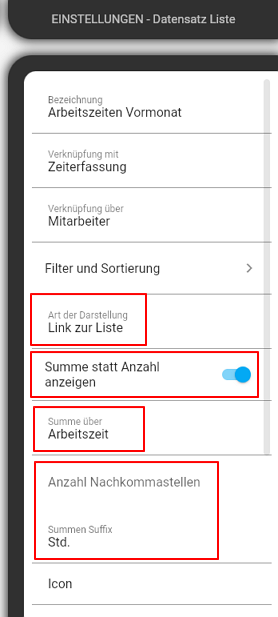
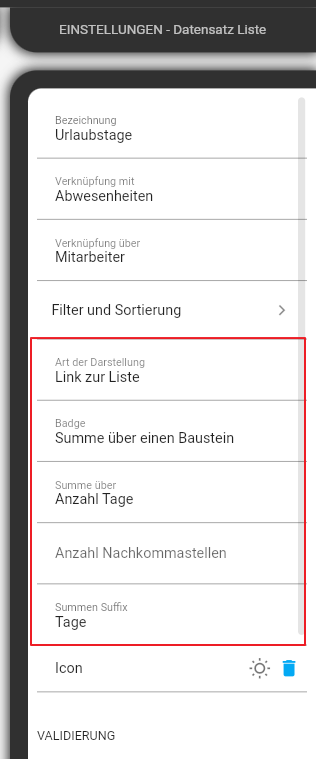
Datensatz-Liste Badgebeschreibung

Changed region(s): [[0.0288, 0.0, 1.0, 1.0], [0.0, 0.0, 0.0288, 0.0308]]

diff --git a/docs/link-lists.md b/docs/link-lists.md
@@ -125,10 +125,11 @@ Der
 kann auch als einfacher Link ohne Vorschau angezeigt werden. Im Standard wird nur der Name der Verknüpfung angezeigt,
 sowie die Anzahl der verknüpften Datensätze.
 
-Anstatt sich die Anzahl der verknüpften Datensätze anzeigen zu lassen, kann über den Switch *Summe statt Anzahl anzeigen*
-eine Summe über die Datensätze gezogen werden. Vorgeschlagen zur Auswahl stehen nur verwendete Bausteine:
-- [Baustein *Nummer*](/docs/record-spec-settings.html#nummer)
-- [Baustein *Zeitspanne*](/docs/record-spec-settings.html#zeitspanne)
+Zusätzlich kann für den Baustein *Datensatz Liste* ein Badge eingestellt werden. Ein Badge ist entweder die Anzeige der Anzahl der beinhalteten Datensätze oder die Summe eines bestimmten Baustein. Wählt man die Variante
+"Summe über einen Baustein", kann in "Summe über" der entsprechende Baustein ausgewählt werden. Vorgeschlagen zur Auswahl stehen nur verwendete Bausteine aus der verknüpften Kachel. Mögliche auswählbare Bausteine:
+- [Baustein *Nummer*](/docs/record-spec-settings/grand-childs-form/number.html)
+- [Baustein *Zeitspanne*](/docs/record-spec-settings/grand-childs-form/interval.html)
+- [Baustein *Formel*](/docs/record-spec-settings/grand-child-expanded/formular.html)
 - Filter
 - Datensatz-Verknüpfungen
 
@@ -139,8 +140,8 @@ Für eine eindeutigere Anzeige kann ein *Summen Suffix* sowie die *Anzahl der Na
 ### <span style="color:#3d85c6">Art der Darstellung: Eingebettete Liste</span>
 
 Wird in den Einstellungen des Bausteins die "Art der Darstellung" auf "eingebettete Liste" geändert, wird eine Vorschau
-der verknüpften Datensätze angezeigt. Im Standard ist die "Anzahl der Datensätze in Vorschau" auf 3 eingestellt. Diese
-Anzahl können beliebig angepasst werden. Die angezeigten Daten in der Vorschau entsprechen der Vorschau in den Listeneinstellung
+der verknüpften Datensätze angezeigt. Im Standard ist die "Anzahl der Datensätze in Vorschau" auf 3 eingestellt. Die
+Anzahl kann beliebig angepasst werden. Die angezeigten Daten in der Vorschau entsprechen der Vorschau in den Listeneinstellung
 der verknüpften Liste.
 
 **Beispiel einer eingebetteten Liste:**
